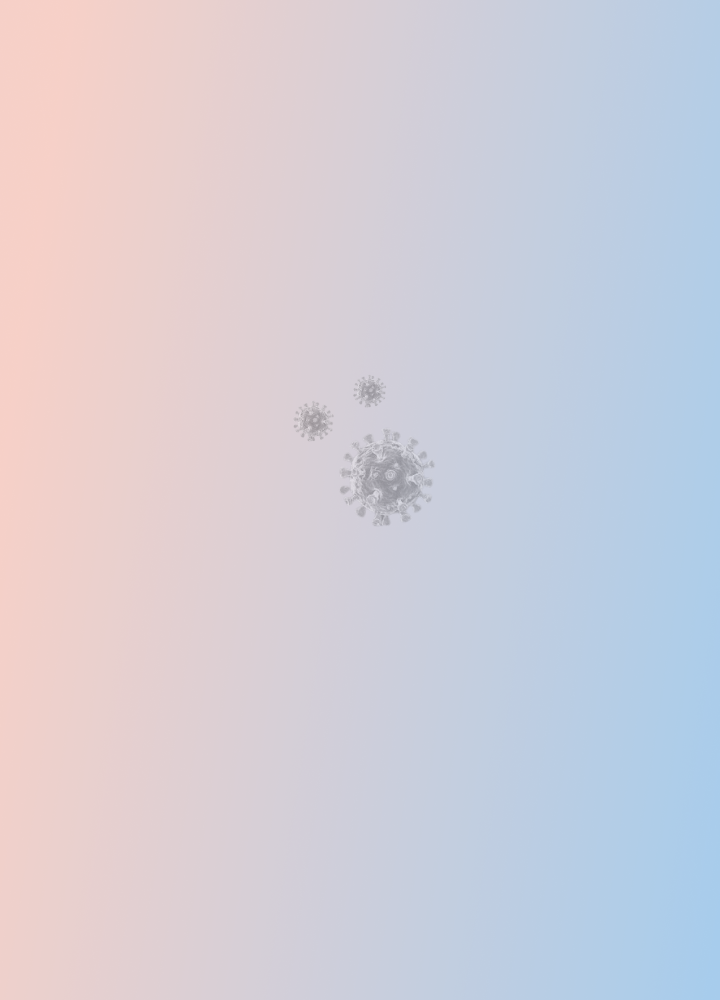
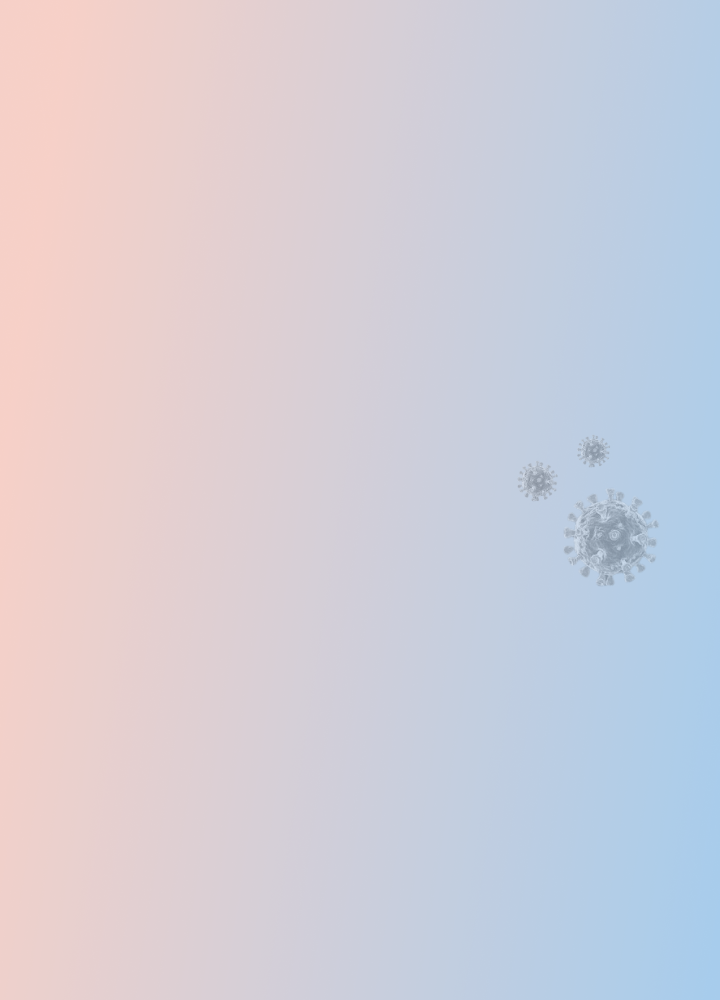
feat: changed layout and image for covid result card

diff --git a/apps/native/app/src/screens/license-scanner/covid-result-card.tsx b/apps/native/app/src/screens/license-scanner/covid-result-card.tsx
@@ -22,6 +22,12 @@ const Header = styled.View`
   padding: 24px;
 `
 
+const SubHeader = styled.View`
+  flex-direction: row;
+  align-items: center;
+  padding: 12px 24px;
+`
+
 const Subtitle = styled.View`
   flex-direction: row;
   align-items: center;
@@ -96,6 +102,7 @@ const Value = styled.Text`
 
 const LabelGroup = styled.View`
   margin-bottom: 16px;
+  width: 50%;
 `
 
 const Left = styled.View`
@@ -153,18 +160,12 @@ export function CovidResultCard(props: ScanResultCardProps) {
   const background =
     backgroundColor === 'pink' ? backgroundPink : backgroundBlue
 
-  console.log('test Date', test?.testDate)
   return (
     <Host>
       <Background source={background} resizeMode="cover" />
       <Header>
         <Detail>
-          <Title>
-            {test && `${test.disease} Test (${test.country})`}
-            {vaccination &&
-              `${vaccination.disease} Vaccination (${vaccination.country})`}
-            {recovery && `${recovery.disease} Recovery (${recovery.country})`}
-          </Title>
+          <Title>Covid-19 Certification</Title>
           <Subtitle>
             <SubtitleIcon>
               {loading ? (
@@ -231,130 +232,104 @@ export function CovidResultCard(props: ScanResultCardProps) {
             </LabelGroup>
           </Content>
           {test && (
-            <Content>
-              <LabelGroup>
-                <Label>Test Result</Label>
-                <Value>{test?.testResult}</Value>
-              </LabelGroup>
-              <LabelGroup>
-                <Label>Test Date</Label>
-                <Value>
-                  {test?.testDate ? intl.formatDate(test?.testDate, {}) : `---`}
-                </Value>
-              </LabelGroup>
-              <LabelGroup>
-                <Label>Test Manufacturer</Label>
-                <Value>{test?.testManufacturer}</Value>
-              </LabelGroup>
-              <LabelGroup>
-                <Label>Test Type</Label>
-                <Value>{test?.testType}</Value>
-              </LabelGroup>
-              <LabelGroup>
-                <Label>Issuer</Label>
-                <Value>{test?.issuer}</Value>
-              </LabelGroup>
-              <LabelGroup>
-                <Label>Test Center</Label>
-                <Value>{test?.testCenter}</Value>
-              </LabelGroup>
-            </Content>
+            <>
+              <SubHeader>
+                <Subtitle>
+                  <SubtitleText>{`${test.disease} - Test - (${test.country})`}</SubtitleText>
+                </Subtitle>
+              </SubHeader>
+              <Content>
+                <LabelGroup>
+                  <Label>Test Result</Label>
+                  <Value>{test?.testResult}</Value>
+                </LabelGroup>
+                <LabelGroup>
+                  <Label>Test Date</Label>
+                  <Value>
+                    {test?.testDate
+                      ? intl.formatDate(test?.testDate, {})
+                      : `---`}
+                  </Value>
+                </LabelGroup>
+                <LabelGroup>
+                  <Label>Test Type</Label>
+                  <Value>{test?.testType}</Value>
+                </LabelGroup>
+              </Content>
+            </>
           )}
           {vaccination && (
-            <Content>
-              <LabelGroup>
-                <Label>Vaccine Product</Label>
-                <Value>{vaccination?.vaccineProduct}</Value>
-              </LabelGroup>
-              <LabelGroup>
-                <Label>Dose Number</Label>
-                <Value>{vaccination?.doseNumber}</Value>
-              </LabelGroup>
-              <LabelGroup>
-                <Label>Date</Label>
-                <Value>
-                  {vaccination?.date
-                    ? intl.formatDate(vaccination?.date, {})
-                    : `---`}
-                </Value>
-              </LabelGroup>
-              <LabelGroup>
-                <Label>Issuer</Label>
-                <Value>{vaccination?.issuer}</Value>
-              </LabelGroup>
-              <LabelGroup>
-                <Label>Vaccine Manufacturer</Label>
-                <Value>{vaccination?.vaccineManufacturer}</Value>
-              </LabelGroup>
-              <LabelGroup>
-                <Label>Vaccine Product</Label>
-                <Value>{vaccination?.vaccineProduct}</Value>
-              </LabelGroup>
-              <LabelGroup>
-                <Label>Vaccine Type</Label>
-                <Value>{vaccination?.vaccineType}</Value>
-              </LabelGroup>
-            </Content>
+            <>
+              <SubHeader>
+                <Subtitle>
+                  <SubtitleText>{`${vaccination.disease} - Vaccination - (${vaccination.country})`}</SubtitleText>
+                </Subtitle>
+              </SubHeader>
+              <Content>
+                <LabelGroup>
+                  <Label>Vaccine Product</Label>
+                  <Value>{vaccination?.vaccineProduct}</Value>
+                </LabelGroup>
+                <LabelGroup>
+                  <Label>Date</Label>
+                  <Value>
+                    {vaccination?.date
+                      ? intl.formatDate(vaccination?.date, {})
+                      : `---`}
+                  </Value>
+                </LabelGroup>
+                <LabelGroup>
+                  <Label>Dose Number</Label>
+                  <Value>{vaccination?.doseNumber}{vaccination?.totalDoses && `/${vaccination?.totalDoses}`}</Value>
+                </LabelGroup>
+                <LabelGroup>
+                  <Label>Vaccine Type</Label>
+                  <Value>{vaccination?.vaccineType}</Value>
+                </LabelGroup>
+              </Content>
+            </>
           )}
           {recovery && (
-            <Content>
-            <LabelGroup>
-              <Label>Disease</Label>
-              <Value>{recovery?.disease}</Value>
-            </LabelGroup>
-            <LabelGroup>
-              <Label>Valid From</Label>
-              <Value>
-                {recovery?.validFrom
-                  ? intl.formatDate(recovery?.validFrom, {})
-                  : `---`}
-              </Value>
-            </LabelGroup>
-            <LabelGroup>
-              <Label>Valid Unit</Label>
-              <Value>
-                {recovery?.validUntil
-                  ? intl.formatDate(recovery?.validUntil, {})
-                  : `---`}
-              </Value>
-            </LabelGroup>
-            <LabelGroup>
-              <Label>Issuer</Label>
-              <Value>{recovery?.issuer}</Value>
-            </LabelGroup>
-            <LabelGroup>
-              <Label>First Positive Test</Label>
-              <Value>
-                {recovery?.firstPositiveTest
-                  ? intl.formatDate(recovery?.firstPositiveTest, {})
-                  : `---`}
-              </Value>
-            </LabelGroup>
-          </Content>
-          )
-          }
+            <>
+              <SubHeader>
+                <Subtitle>
+                  <SubtitleText>{`${recovery.disease} - Recovery - (${recovery.country})`}</SubtitleText>
+                </Subtitle>
+              </SubHeader>
+              <Content>
+                <LabelGroup>
+                  <Label>Disease</Label>
+                  <Value>{recovery?.disease}</Value>
+                </LabelGroup>
+                <LabelGroup>
+                  <Label>First Positive Test</Label>
+                  <Value>
+                    {recovery?.firstPositiveTest
+                      ? intl.formatDate(recovery?.firstPositiveTest, {})
+                      : `---`}
+                  </Value>
+                </LabelGroup>
+                <LabelGroup>
+                  <Label>Valid From</Label>
+                  <Value>
+                    {recovery?.validFrom
+                      ? intl.formatDate(recovery?.validFrom, {})
+                      : `---`}
+                  </Value>
+                </LabelGroup>
+                <LabelGroup>
+                  <Label>Valid Until</Label>
+                  <Value>
+                    {recovery?.validUntil
+                      ? intl.formatDate(recovery?.validUntil, {})
+                      : `---`}
+                  </Value>
+                </LabelGroup>
+              </Content>
+            </>
+          )}
         </>
       )}
     </Host>
   )
 }
-
-
-dateOfBirth: "1979-05-12"
-expiresAt: Object
-familyName: "Telokk"
-givenName: "Gry"
-issuedAt: Object
-issuer: "NO"
-recovery: Object
-certificateId: "URN:UVCI:01:NO:PRV/EV6EVFPHCEGX108VC"
-country: "NO"
-disease: "COVID-19"
-firstPositiveTest: Object
-issuer: "Norwegian Institute of Public Health"
-validFrom: Object
-validUntil: Object
-__proto__: Object
-valid: false
-version: "1.3.0"
-__proto__: Object
